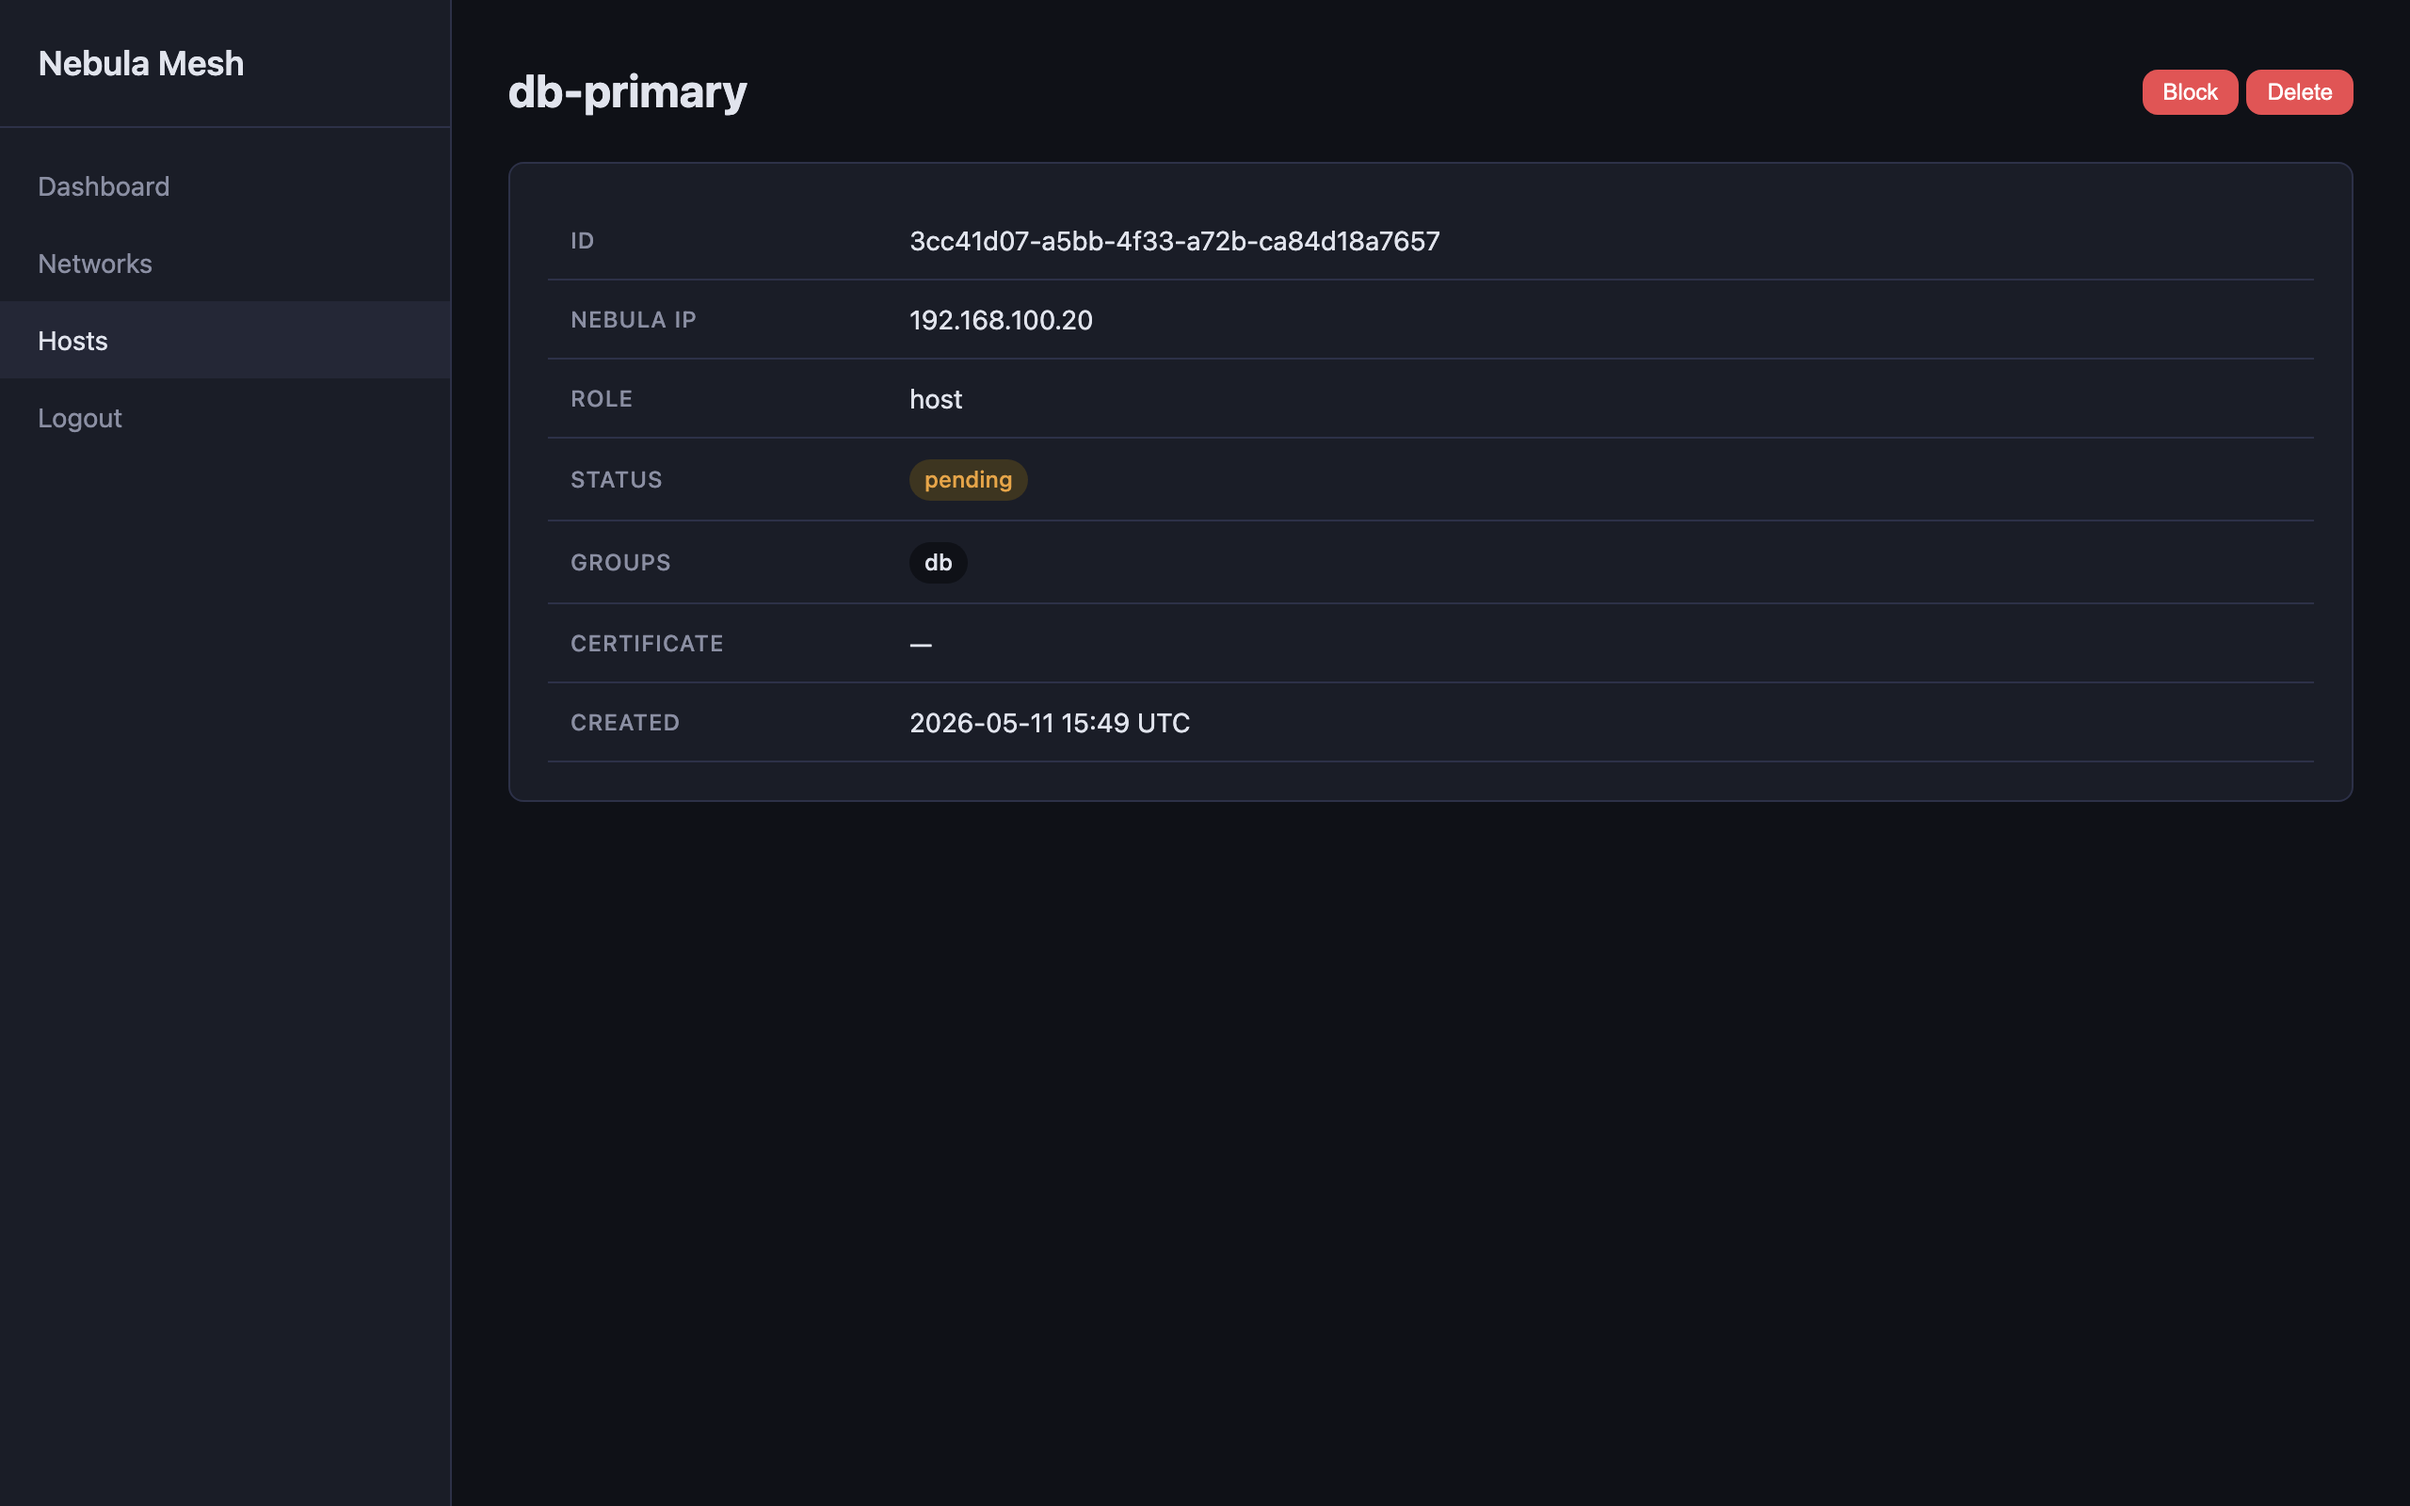
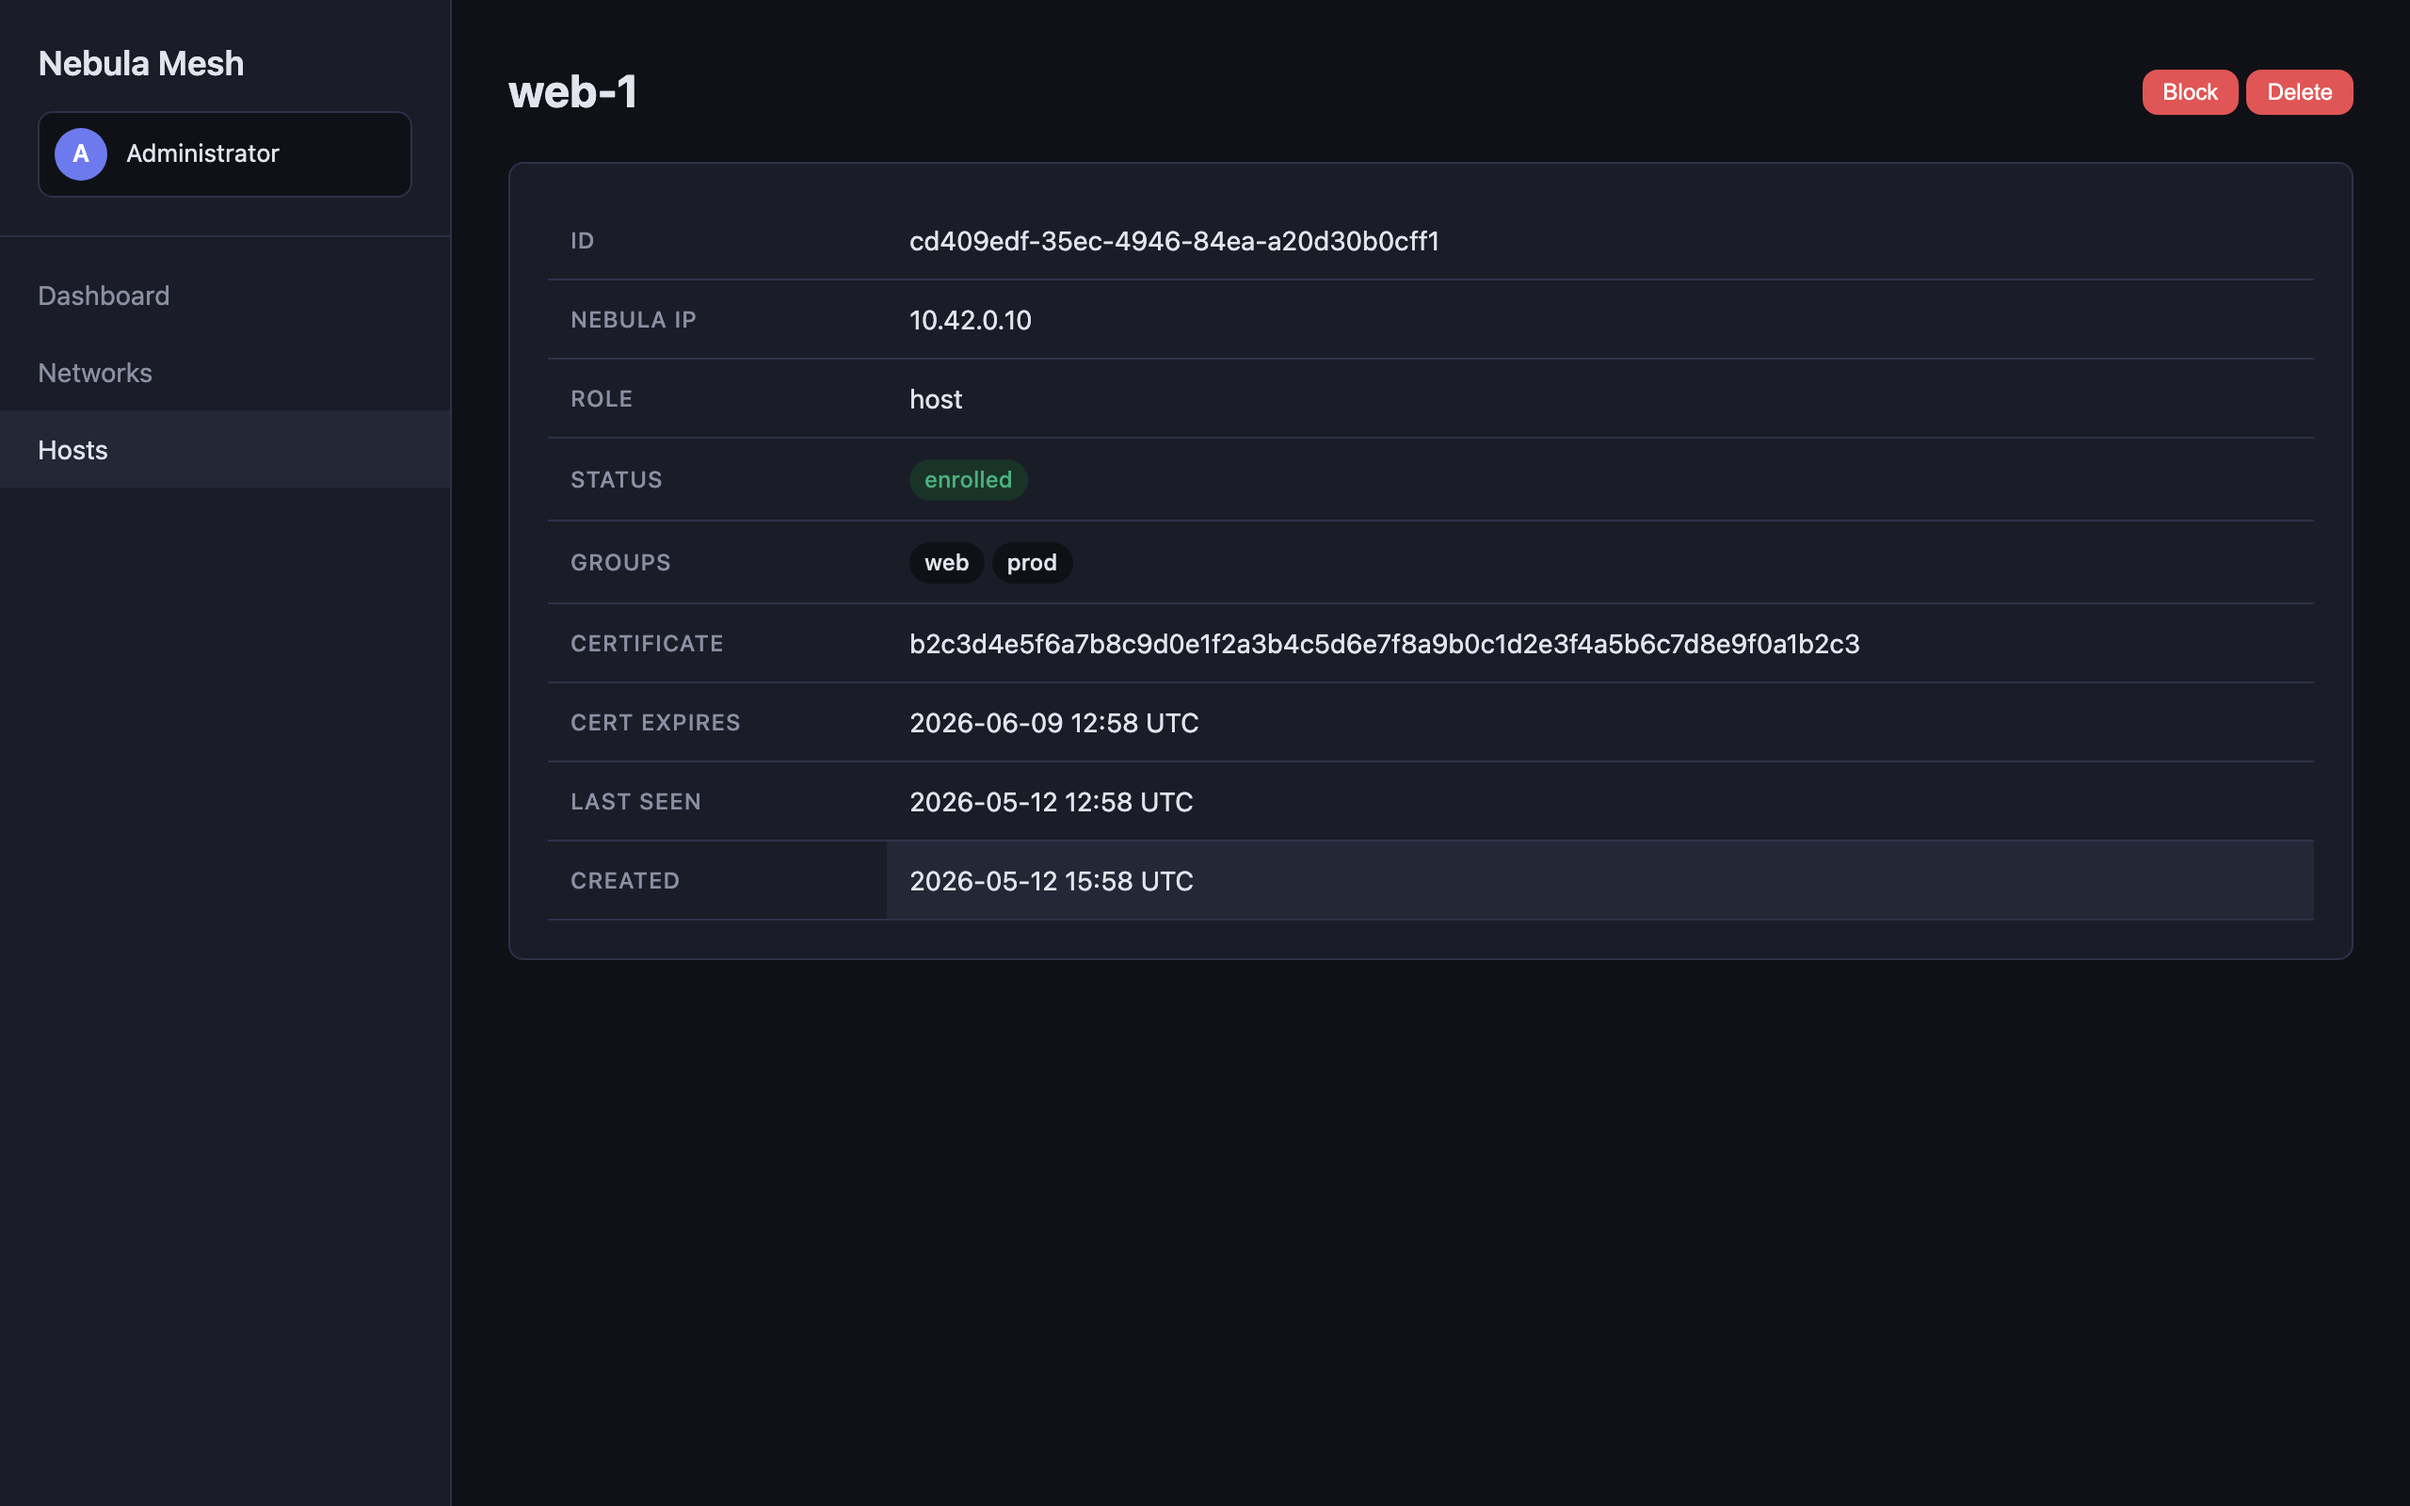
docs: refresh README screenshots and add 7 new UI views
Re-takes all four pre-existing screenshots (dashboard, hosts, host-detail,
networks) against the current UI — they now show the operator profile
chip in the sidebar (introduced in #33) and human-readable network names
(introduced in #19).

Adds seven new screenshots that didn't exist before, covering the
features merged in this iteration:

  login                     — username + password, with the optional
                              'Create an account' link visible when
                              self-registration is enabled (#32)
  register                  — self-registration flow (#32)
  profile                   — operator profile page that hosts the
                              sign-out button (#33)
  host-new-advanced         — host creation form with the new advanced
                              configuration section expanded (#30)
  2fa-setup                 — TOTP enrollment page (otpauth:// URL +
                              base32 secret + confirmation code field)
  2fa-enabled               — TOTP enabled, recovery codes shown once
  login-totp                — second-factor prompt after password
                              (#23, #33)

All screenshots captured against a freshly-init'd local instance with a
realistic demo network (10.42.0.0/24) and five hosts in mixed states
(enrolled, pending) so the dashboard and tables look populated. The
host-detail view targets web-1 (groups: web, prod) instead of the
[…]

diff --git a/README.md b/README.md
@@ -4,7 +4,20 @@
 
 ![Dashboard](docs/screenshots/dashboard.png)
 
-<sub>More views: [hosts](docs/screenshots/hosts.png) · [host detail](docs/screenshots/host-detail.png) · [networks](docs/screenshots/networks.png)</sub>
+<sub>
+More views — UI:
+[hosts](docs/screenshots/hosts.png) ·
+[host detail](docs/screenshots/host-detail.png) ·
+[host create (with advanced)](docs/screenshots/host-new-advanced.png) ·
+[networks](docs/screenshots/networks.png) ·
+[profile](docs/screenshots/profile.png).
+Auth:
+[login](docs/screenshots/login.png) ·
+[register](docs/screenshots/register.png) ·
+[2FA: setup](docs/screenshots/2fa-setup.png) ·
+[2FA: enabled + recovery codes](docs/screenshots/2fa-enabled.png) ·
+[login → TOTP prompt](docs/screenshots/login-totp.png).
+</sub>
 
 [![CI](https://github.com/juev/nebula-mesh/actions/workflows/ci.yml/badge.svg)](https://github.com/juev/nebula-mesh/actions/workflows/ci.yml)
 [![Release](https://img.shields.io/github/v/release/juev/nebula-mesh?display_name=tag&sort=semver)](https://github.com/juev/nebula-mesh/releases/latest)
